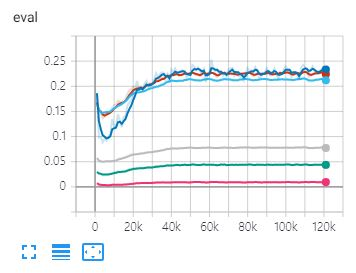
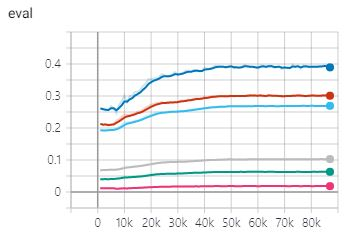
Implement IterableDataset (multiprocessing ok, but testing need)
Also, update loss curve and evaluation metric.

diff --git a/train.py b/train.py
@@ -14,57 +14,46 @@ from torch.utils.data import IterableDataset, DataLoader, get_worker_info
 from torch.utils.tensorboard import SummaryWriter
 
 
-"""
-class EpochRandomSampler(Sampler):
-    def __init__(self, data_source, epoch=1):
-        self.data_source = data_source
-        self.epoch = epoch
-
-    def __iter__(self):
-        n = len(self.data_source)
-        return iter(torch.cat([torch.randperm(n)
-                               for _ in range(self.epoch)]).tolist())
-
-    def __len__(self):
-        return self.epoch * len(self.data_source)
-"""
-
-
 class TripletUniformPair(IterableDataset):
-    def __init__(self, num_item, user_list, pair, shuffle, num_epochs, batch_size):
+    def __init__(self, num_item, user_list, pair, shuffle, num_epochs):
         self.num_item = num_item
         self.user_list = user_list
         self.pair = pair
         self.shuffle = shuffle
         self.num_epochs = num_epochs
-        self.batch_size = batch_size
 
     def __iter__(self):
         worker_info = get_worker_info()
         # Shuffle per epoch
-        if worker_info is None:
-            self.example_size = self.num_epochs * len(self.pair)
-            self.example_index_queue = deque([])
-            self.iteration_size = self.example_size // self.batch_size * self.batch_size
-            self.index = 0
+        self.example_size = self.num_epochs * len(self.pair)
+        self.example_index_queue = deque([])
+        self.seed = 0
+        if worker_info is not None:
+            self.start_list_index = worker_info.id
+            self.num_workers = worker_info.num_workers
+            self.index = worker_info.id
         else:
-            raise NotImplementedError
+            self.start_list_index = None
+            self.num_workers = 1
+            self.index = 0
         return self
 
     def __next__(self):
-        if self.index >= self.iteration_size:
+        if self.index >= self.example_size:
             raise StopIteration
         # If `example_index_queue` is used up, replenish this list.
-        while len(self.example_index_queue) < self.batch_size:
+        while len(self.example_index_queue) == 0:
             index_list = list(range(len(self.pair)))
             if self.shuffle:
-                random.shuffle(index_list)
+                random.Random(self.seed).shuffle(index_list)
+                self.seed += 1
+            if self.start_list_index is not None:
+                index_list = index_list[self.start_list_index::self.num_workers]
+                # Calculate next start index
+                self.start_list_index = (self.start_list_index + (self.num_workers - (len(self.pair) % self.num_workers))) % self.num_workers
             self.example_index_queue.extend(index_list)
-        batch_index = [self.example_index_queue.popleft()
-                       for _ in range(self.batch_size)]
-        result = [self._example(i) for i in batch_index]
-        result = list(map(list, zip(*result)))
-        self.index += 1
+        result = self._example(self.example_index_queue.popleft())
+        self.index += self.num_workers
         return result
 
     def _example(self, idx):
@@ -184,10 +173,8 @@ def main(args):
     print('Load complete')
 
     # Create dataset, model, optimizer
-    dataset = TripletUniformPair(item_size, train_user_list, train_pair, True, args.n_epochs, args.batch_size)
-    #sampler = EpochRandomSampler(dataset, 20)
-    #loader = DataLoader(dataset, batch_size=args.batch_size, sampler=sampler, num_workers=16)
-    loader = DataLoader(dataset, num_workers=0)
+    dataset = TripletUniformPair(item_size, train_user_list, train_pair, True, args.n_epochs)
+    loader = DataLoader(dataset, batch_size=args.batch_size, num_workers=16)
     model = BPR(user_size, item_size, args.dim, args.weight_decay).cuda()
     optimizer = optim.Adam(model.parameters(), lr=args.lr)
     writer = SummaryWriter()
@@ -204,9 +191,6 @@ def main(args):
         smooth_loss = smooth_loss*0.99 + loss*0.01
         if idx % args.print_every == (args.print_every - 1):
             print('loss: %.4f' % smooth_loss)
-            writer.add_histogram('user_gradnorm', model.W.grad[u, :].norm(dim=1))
-            writer.add_histogram('postivie_gradnorm', model.H.grad[i, :].norm(dim=1))
-            writer.add_histogram('negative_gradnorm', model.H.grad[j, :].norm(dim=1))
         if idx % args.eval_every == (args.eval_every - 1):
             plist, rlist = precision_and_recall_k(model.W.detach(),
                                                     model.H.detach(),
@@ -256,7 +240,7 @@ if __name__ == '__main__':
     # Training
     parser.add_argument('--n_epochs',
                         type=int,
-                        default=1000,
+                        default=500,
                         help="Number of epoch during training")
     parser.add_argument('--batch_size',
                         type=int,

diff --git a/README.md b/README.md
@@ -114,13 +114,31 @@ Q. Loss converge to 0.6931.
 A. Because weight decay is so strong that model cannot learn from dataset.
 Decrease the weight decay factor.
 
-## Experimental laboratory
+## Laboratory (Experimental development)
+
+### Test driven development
+
+I use `unittest` framework to make my function reliable.
+The execution code for testing is `python test.py`.
+You can get some useful code snippets from `test.py`.
+
+### Brand new data structure `VariableShapeList`
 
 I am working for more elaborated approach to calculate evaluation metric.
 For now, I develop `VariableShapeList` which can handle list of tensors which has different length.
 Someone might said that it is equivalent with `PackedSequence` which is already implemented in pyTorch, but I can't use that data structure for evaluation metric.
 
+### Use IterableDataset for delivering fast data structure
+
+I figure out that the setup time for multiprocessing `DataLoader` is major bottleneck in my training script.
+Therefore, I refactor my dataset with `IterableDataset` and get 10x faster than existing implementation.
+*This implementation needs to be tested.*
+
+### Performance optimization
+
+The large batch size and speed performance optimization boost evaluation metric.
+I will updated all statistics for MovieLens-1M and MovieLens-20M.
+
 ## Contact
 
-If you have any problem during simulating this code, open issue or contact me
-by sending email to seonghyeon.drew@gmail.com
+If you have any problem or encounter mysterious things during simulating this code, **open issue** or contact me by sending email to seonghyeon.drew@gmail.com
